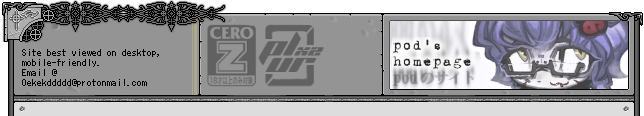
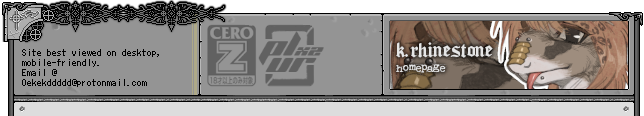
.

Changed region(s): [[0.5901, 0.181, 0.9938, 0.7759], [0.0621, 0.0, 0.3727, 0.1293]]

diff --git a/log/css.css b/log/css.css
@@ -1,4 +1,4 @@
 body{
-  background:url("../ui/backgrounds/monchhichi.png") no-repeat, url("../ui/backgrounds/animateshelf.png") no-repeat, url("../ui/backgrounds/mintile.gif") repeat !important;
-  background-position:top left, top right, top left !important;
+  background:url("../ui/backgrounds/monchhichi.png") no-repeat, url("../ui/backgrounds/landing_01.png") no-repeat, url("../ui/backgrounds/animateshelf.png") no-repeat, url("../ui/backgrounds/mingrid.png") repeat !important;
+  background-position:top left, top left, top right, top left !important;
 }

diff --git a/ui/css.css b/ui/css.css
@@ -2,9 +2,9 @@
 :root{
   --linkColor:#525252;
   --selectionColor:#00000030;
-  --jellyGradient:linear-gradient(180deg, #ac7be8 5%, #7d49d1 39%, #a95eeb 92%);
-  --headingBorder:#3e0078;
-  --jellySolid:#ce36d9;
+  --jellyGradient:linear-gradient(180deg, #c99dab 5%, #d46a86 39%, #e398b0 92%);
+  --headingBorder:#000000;
+  --jellySolid:#a3083a;
   --divSolid:linear-gradient(0deg, #ededed 1%, #ffffff 30%);
   --divInset:linear-gradient(180deg, #d6d6d670 0%, #ffffff 100%);
   --fontSizeMobile:14px;
